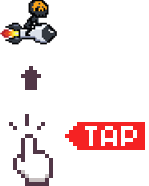
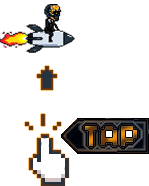
1

diff --git a/game-ui.js b/game-ui.js
@@ -359,12 +359,15 @@ home = {
 // Экран готовности
 getReady = {
     get_ready: {spriteX: 552, spriteY: 321, spriteW: 349, spriteH: 87, x: 0, y: 0, w: 0, h: 0},
-    tap: {spriteX: 0, spriteY: 0, spriteW: 155, spriteH: 196, x: 0, y: 0, w: 0, h: 0},
+    tap: {x: 0, y: 0, w: 0, h: 0}, // убираем spriteX, spriteY, spriteW, spriteH
 
     draw: function() {
         if(state.current == state.getReady) {
             ctx.drawImage(getReadyImg, this.get_ready.x, this.get_ready.y, this.get_ready.w, this.get_ready.h);
-            ctx.drawImage(sprite_sheet, this.tap.spriteX, this.tap.spriteY, this.tap.spriteW, this.tap.spriteH, this.tap.x, this.tap.y, this.tap.w, this.tap.h);
+            ctx.drawImage(
+                tapImg,
+                this.tap.x, this.tap.y, this.tap.w, this.tap.h
+            );
         }
     }
 };
@@ -408,6 +411,11 @@ const btnStartImg = new Image(); btnStartImg.src = "img/separated/buttons/start.
 // === Загрузка отдельного изображения для логотипа ===
 const mainLogoImg = new Image();
 mainLogoImg.src = "img/separated/main_logo_text.png";
+
+// === ДОБАВИТЬ В НАЧАЛО ФАЙЛА ===
+const tapImg = new Image();
+tapImg.src = "img/separated/tap.png";
+// === КОНЕЦ ДОБАВЛЕНИЯ ===
 
 // === ГЛОБАЛЬНАЯ ПЕРЕМЕННАЯ ДЛЯ МАСШТАБА ===
 window.gameScale = 1;
@@ -454,8 +462,8 @@ canvasScale = function() {
     // BIRD
     bird.x = cvs.width * 0.290;
     bird.y = cvs.height * 0.395;
-    bird.w = cvs.width * 0.16;
-    bird.h = cvs.height * 0.059;
+    bird.w = cvs.width * 0.16 + 10;
+    bird.h = cvs.height * 0.059 + 20;
     
     // ФИКСИРОВАННЫЕ ПАРАМЕТРЫ НЕ ЗАВИСЯТ ОТ РАЗМЕРА ОКНА
     bird.gravity = 500;
